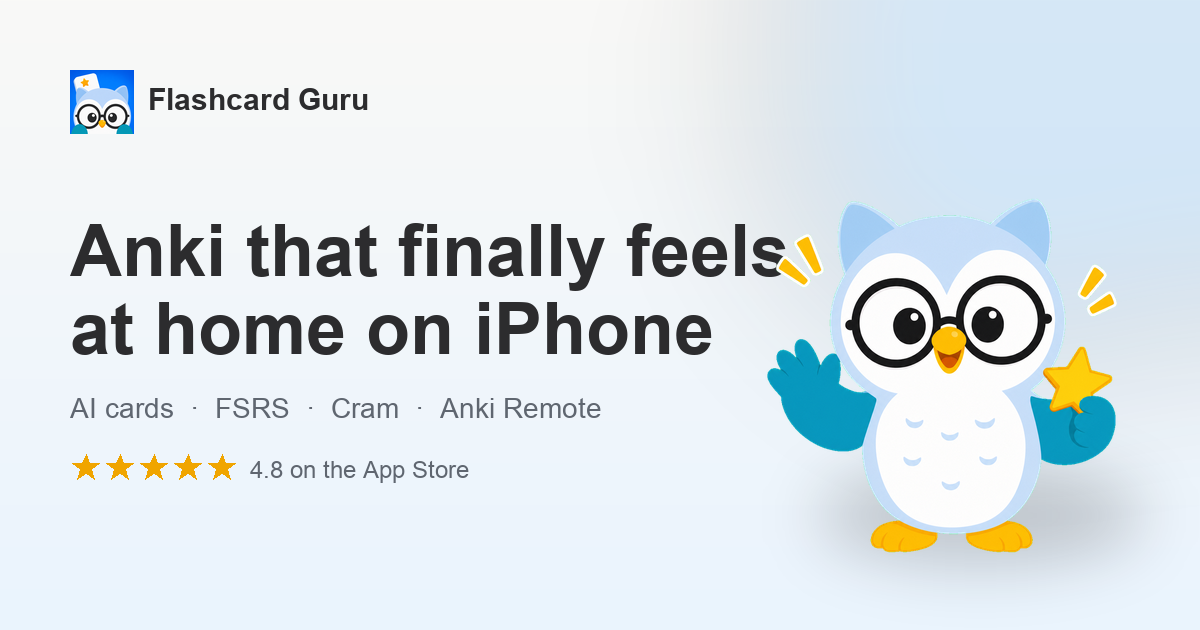
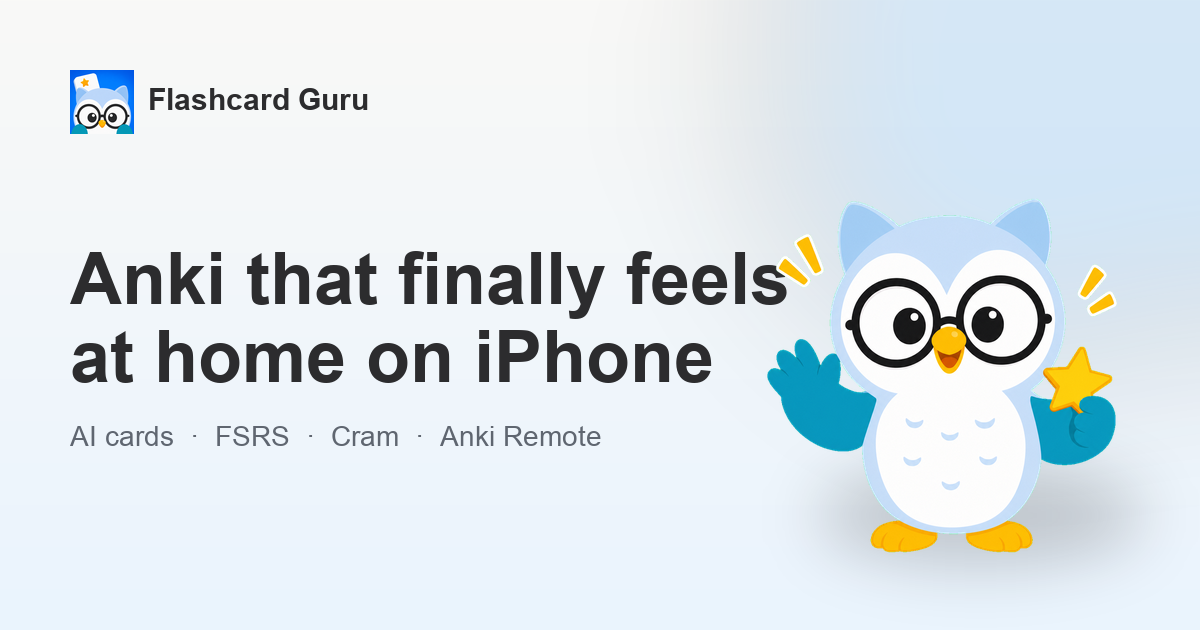
fix(landing): remove unverified App Store rating claim
Drop the "4.8 on the App Store" star rating from the hero + final CTA and
re-bake the OG image without it — we can't substantiate the number.

Changed region(s): [[0.0617, 0.3317, 0.6783, 0.7841]]

diff --git a/templates/landing.tmpl.html b/templates/landing.tmpl.html
@@ -67,7 +67,6 @@
               </a>
               <a class="btn btn-ghost btn-lg" href="{{prefix}}/pricing">{{cta.seePricing}}</a>
             </div>
-            <div class="rating"><span class="stars">★★★★★</span> {{landing.hero.rating}}</div>
           </div>
           <div class="hero-art">
             <img class="owl" src="/assets/owl/owl-hero.png" alt="" aria-hidden="true" width="184" height="184">
@@ -173,7 +172,6 @@
             </a>
             <a class="btn btn-ghost btn-lg" href="{{prefix}}/pricing">{{cta.seePricing}}</a>
           </div>
-          <div class="rating" style="justify-content:center;margin-top:18px"><span class="stars">★★★★★</span> {{landing.hero.rating}}</div>
         </div>
       </section>
     </main>
